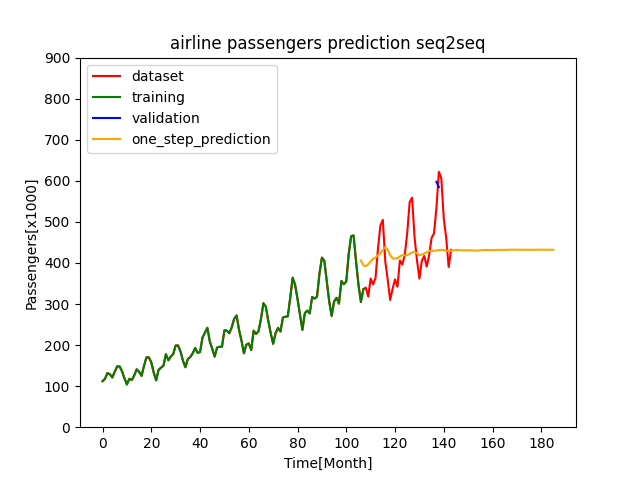
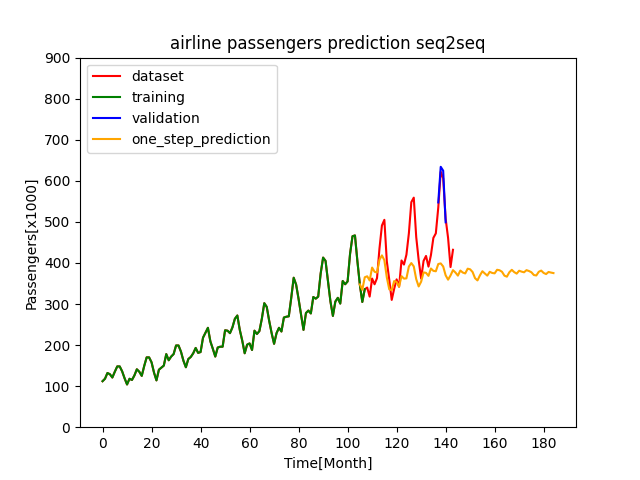
set LOOK_OUT to 1 for airline_passengers_keras_seq2seq

diff --git a/TimeSeriesPrediction/UnivariatTimeSeriesForecast/AirlinePassengers/Keras/workflows/airline_passengers_keras_seq2seq_workflow.py b/TimeSeriesPrediction/UnivariatTimeSeriesForecast/AirlinePassengers/Keras/workflows/airline_passengers_keras_seq2seq_workflow.py
@@ -7,7 +7,7 @@ EPOCHS = 600
 LEARNING_RATE = 0.001
 BATCH_SIZE = 32
 LOOK_BACK = 30
-LOOK_OUT = 3
+LOOK_OUT = 1
 PREDICTION_START = -1
 NUMBER_OF_PREDICTIONS = 80
 
@@ -51,7 +51,7 @@ def workflow(model, name):
 
     prediction = pd.DataFrame()
     prediction["one_step_prediction"] = train_scaler.inverse_transform([prediction_results]).flatten()
-    prediction.index += airline_passengers.threshold + start_index
+    prediction.index += airline_passengers.threshold + start_index - 1
 
     plt.plot(airline_passengers.data["Passengers"], color="red", label="dataset")
     plt.plot(airline_passengers.get_train_data(), color="green", label="training")

diff --git a/TimeSeriesPrediction/UnivariatTimeSeriesForecast/AirlinePassengers/Keras/models/airline_passengers_keras_seq2seq.py b/TimeSeriesPrediction/UnivariatTimeSeriesForecast/AirlinePassengers/Keras/models/airline_passengers_keras_seq2seq.py
@@ -8,7 +8,7 @@ def seq2seq_model():
     encoder_lstm, state_h, state_c = LSTM(50, return_state=True)(encoder_input)
     encoder_states = [state_h, state_c]
 
-    decoder_input = Input(shape=(1, 3))
+    decoder_input = Input(shape=(1, 1))
     decoder_lstm = LSTM(50, return_sequences=True, return_state=True)
     decoder_output, _, _ = decoder_lstm(decoder_input, initial_state=encoder_states)
     decoder_output = Dense(1)(decoder_output)
